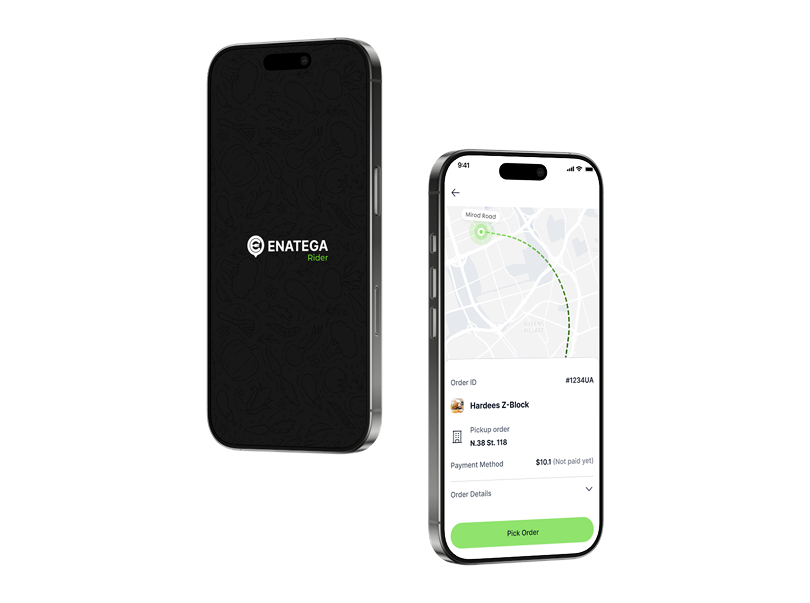
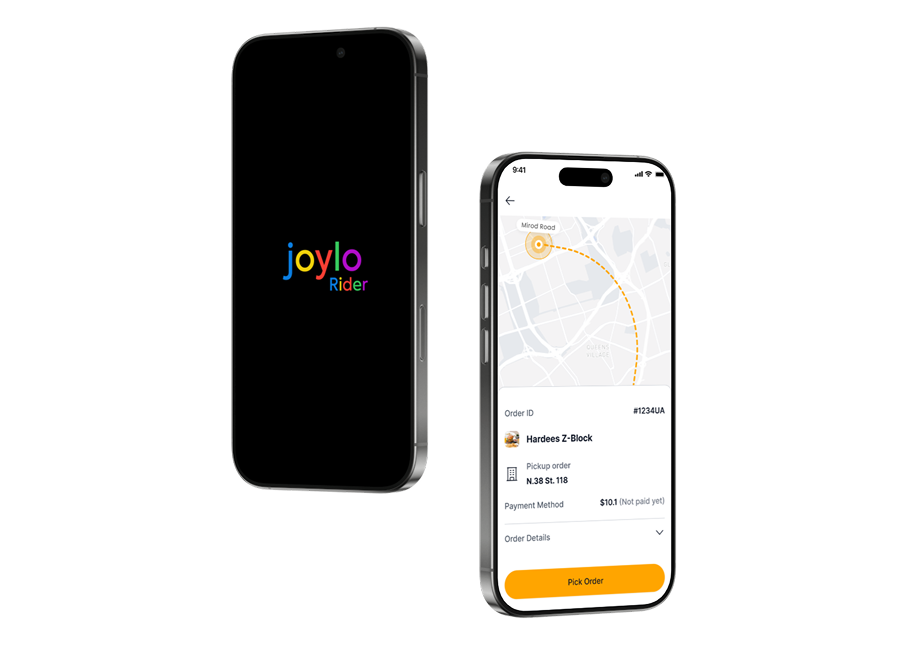
Replace PNG with WEBP format for Banner3 image in GrowBussiness component and update branding text from "Enatega" to "Joylo" in RestaurantInfo component for consistency. Add new Banner3.webp file and remove the old Banner3.png file.

diff --git a/joylo-web/lib/ui/screens/unprotected/RestaurantInfo/index.tsx b/joylo-web/lib/ui/screens/unprotected/RestaurantInfo/index.tsx
@@ -40,7 +40,7 @@ const RestInfo = () => {
     <div className='w-screen  h-auto'>
     <Heading heading={"Reach more customers and grow your business with Joylo"} subHeading={"Partner with Joylo to create more sales on the app and through your own website"}/>
     <StartingImage image={restaurantBanner}/>
-    <WhyChoose heading='Why Deliver with Enatgea' subHeading="As an Joylo Rider Partner, you can earn money by delivering orders to local customers. You can have a flexible schedule, so you deliver in the place or at the time that suits you the most. It's easy to start earning - no previous delivery experience is required!" />
+    <WhyChoose heading='Why Deliver with Joylo' subHeading="As an Joylo Rider Partner, you can earn money by delivering orders to local customers. You can have a flexible schedule, so you deliver in the place or at the time that suits you the most. It's easy to start earning - no previous delivery experience is required!" />
     <WhyCardsList cards={cards}/>
     <SideContainers sideCards={sideCards} />
     <hr  className='w-[30%] ml-12 border-4 border-primary-color my-12 rounded'/>

diff --git a/joylo-web/lib/ui/screen-components/un-protected/Home/GrowBussiness/index.tsx b/joylo-web/lib/ui/screen-components/un-protected/Home/GrowBussiness/index.tsx
@@ -6,7 +6,7 @@ import MoveableCard from '@/lib/ui/useable-components/Moveable-Card'
 import TranparentButton from '@/lib/ui/useable-components/Home-Buttons/TranparentButton'
 
 //images 
-import Banner3 from '@/public/assets/images/png/Banner3.png'
+import Banner3 from '@/public/assets/images/png/Banner3.webp'
 
 const GrowBussiness:React.FC = () => {
   const growButon=<TranparentButton text={"Get Started"} link='restaurantInfo'/>
